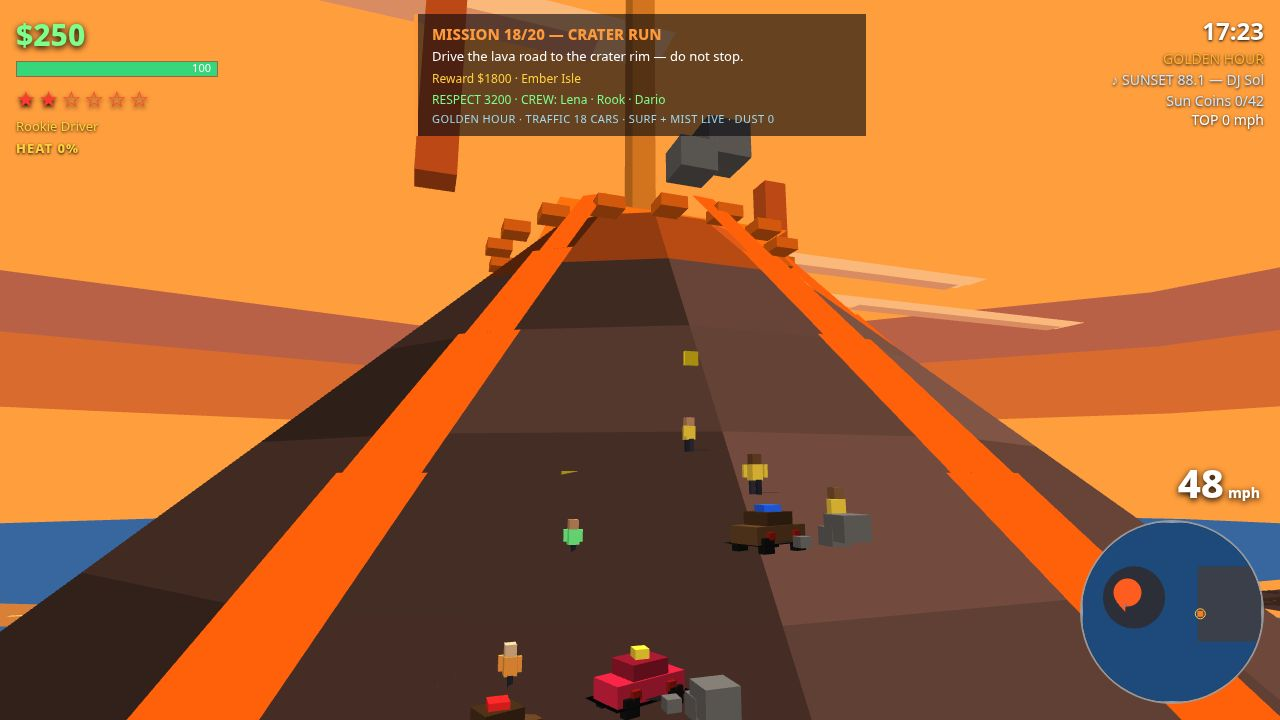
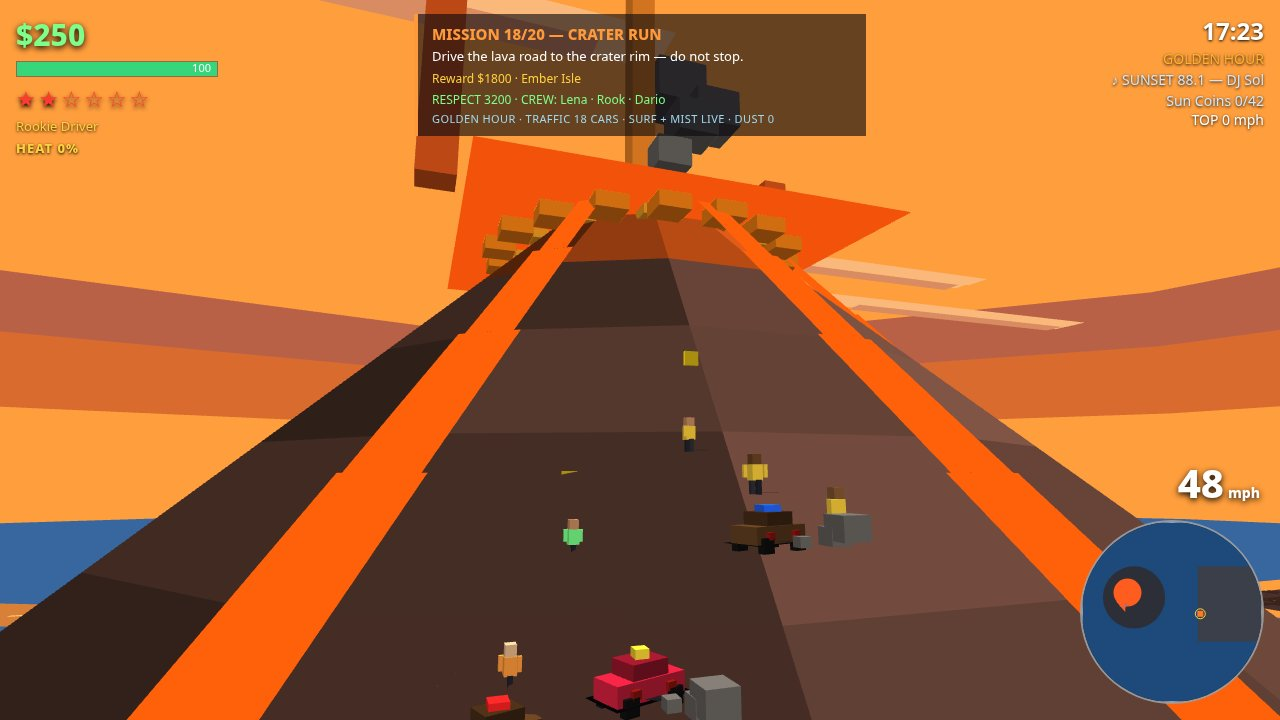
GTA 6 Round 11: brighter crater lava + ferry deck detail
Volcano: 5th lava flow down the camera-facing slope, brighter crater floor with halo ring, chunkier double rim ring, 5 taller smoke puffs, 22 eruption sparks. Ferry: lit gold cabin windows, second lifeboat, deck lights on both sides + rail-top glow dots, longer/wider foam wake with side streaks.

Changed region(s): [[0.3438, 0.0611, 0.7188, 0.4278]]

diff --git a/game/src/render.js b/game/src/render.js
@@ -178,9 +178,12 @@ export class Renderer {
         this.quad(p0, p1, q1, q0, c, false);
       }
     }
-    // Flat crater floor, glowing.
+    // Flat crater floor, glowing — Round 11: brighter core plus a wider
+    // halo ring just below it, so the crater reads as molten from the
+    // low volcano-shot camera instead of a flat orange square.
     const cr = baseR * 0.14;
-    this.quad([cx - cr, height, cz - cr], [cx + cr, height, cz - cr], [cx + cr, height, cz + cr], [cx - cr, height, cz + cr], [1.0, 0.45, 0.05], true);
+    this.quad([cx - cr * 1.7, height - 0.4, cz - cr * 1.7], [cx + cr * 1.7, height - 0.4, cz - cr * 1.7], [cx + cr * 1.7, height - 0.4, cz + cr * 1.7], [cx - cr * 1.7, height - 0.4, cz + cr * 1.7], [0.95, 0.32, 0.04], true);
+    this.quad([cx - cr, height, cz - cr], [cx + cr, height, cz - cr], [cx + cr, height, cz + cr], [cx - cr, height, cz + cr], [1.0, 0.58, 0.12], true);
   }
 
   // Sun disc + halo, vertical billboard facing the camera, noFog.
@@ -469,10 +472,18 @@ export function renderFrame(renderer, world, state, time) {
   renderer.cone(v.x, v.z, v.base, v.height, '#6e4a3e', 9);
   // Bright orange crater rim ring, visible from the side. The rim boxes
   // stay small (4.5 m) so they read as a glowing rim, not as spikes.
+  // Round 11 — brighter, chunkier rim: the outer ring is bigger and
+  // hotter, and a second inner ring hugs the crater edge, so the rim
+  // reads as a glowing circle even from the low shot camera.
   for (let i = 0; i < 18; i++) {
     const a = (i / 18) * Math.PI * 2;
     const rx = v.x + Math.cos(a) * (v.craterR + 2), rz = v.z + Math.sin(a) * (v.craterR + 2);
-    renderer.box(rx, v.height - 2, rz, 4.5, 2, 4.5, [1.0, 0.42, 0.06], { nofog: true });
+    renderer.box(rx, v.height - 2, rz, 5.5, 2.6, 5.5, [1.0, 0.52, 0.08], { nofog: true });
+  }
+  for (let i = 0; i < 12; i++) {
+    const a = (i / 12) * Math.PI * 2 + 0.26;
+    const rx = v.x + Math.cos(a) * (v.craterR - 3), rz = v.z + Math.sin(a) * (v.craterR - 3);
+    renderer.box(rx, v.height - 1, rz, 4, 2.2, 4, [1.0, 0.64, 0.14], { nofog: true });
   }
   // Lava flows down three slopes, as glowing ribbons lying ON the cone
   // surface: each segment follows the slope (p.y at one end, q.y at the
@@ -490,23 +501,53 @@ export function renderFrame(renderer, world, state, time) {
         [1.0, 0.38, 0.04], true);
     }
   }
+  // Round 11 — a fifth lava flow, drawn here (not in world.js) down the
+  // slope the volcano-shot camera faces (angle -0.35 rad, between the
+  // car and the crater), so the crater run's foreground slope carries a
+  // bright ribbon too. Cone height is linear in radius: the cone spans
+  // baseR at y=0 to baseR*0.14 at y=height, so y = height*(1-r/base)/0.86.
+  {
+    const fa = -0.35;
+    let prev = null;
+    for (let t = 0; t <= 1.001; t += 0.125) {
+      const r = v.craterR + t * (v.base - v.craterR);
+      const pt = {
+        x: v.x + Math.cos(fa) * r,
+        z: v.z + Math.sin(fa) * r,
+        y: v.height * (1 - r / v.base) / 0.86 + 0.6,
+        w: 4.5 + Math.sin(t * Math.PI) * 5.5,
+      };
+      if (prev) {
+        const dx = pt.x - prev.x, dz = pt.z - prev.z;
+        const len = Math.hypot(dx, dz) || 1;
+        const px = -dz / len * (prev.w / 2), pz = dx / len * (prev.w / 2);
+        renderer.quad(
+          [prev.x - px, prev.y + 0.7, prev.z - pz], [prev.x + px, prev.y + 0.7, prev.z + pz],
+          [pt.x + px, pt.y + 0.7, pt.z + pz], [pt.x - px, pt.y + 0.7, pt.z - pz],
+          [1.0, 0.42, 0.05], true);
+      }
+      prev = pt;
+    }
+  }
   // Wide beacon beam above the crater + two dim side pillars rooted at the rim.
   renderer.box(v.x, v.height + 40, v.z, 5, 80, 5, [1.0, 0.55, 0.15], { nofog: true });
   renderer.box(v.x - 40, v.height + 15, v.z + 20, 6, 30, 6, [0.9, 0.35, 0.1], { nofog: true });
   renderer.box(v.x + 42, v.height + 15, v.z - 18, 6, 30, 6, [0.9, 0.35, 0.1], { nofog: true });
-  // Smoke puffs above the crater, drifting with time. Kept small and
-  // pale so they read as smoke, not as dark blocks over the crater.
-  for (let i = 0; i < 3; i++) {
-    const t = (time * 0.12 + i / 3) % 1;
-    renderer.box(v.x + Math.sin(i * 2.4) * 6 + t * 18, v.height + 6 + t * 26, v.z + Math.cos(i * 1.7) * 6, 5 + t * 6, 4 + t * 5, 5 + t * 6, [0.42, 0.40, 0.38], { nofog: false });
+  // Smoke puffs above the crater, drifting with time. Round 11 — five
+  // puffs now, climbing higher, so the eruption column reads above the
+  // rim instead of hugging it.
+  for (let i = 0; i < 5; i++) {
+    const t = (time * 0.12 + i / 5) % 1;
+    renderer.box(v.x + Math.sin(i * 2.4) * 6 + t * 18, v.height + 8 + t * 38, v.z + Math.cos(i * 1.7) * 6, 5 + t * 7, 4 + t * 6, 5 + t * 7, [0.42, 0.40, 0.38], { nofog: false });
   }
-  // Lava sparks during eruption pulses.
+  // Lava sparks during eruption pulses. Round 11 — more sparks, thrown
+  // wider and higher, so the eruption reads at the frame's top edge.
   const erupting = Math.sin(time * 0.5) > 0.2;
   if (erupting) {
-    for (let i = 0; i < 14; i++) {
-      const a = (i / 14) * Math.PI * 2 + time;
-      const r = 8 + (i % 4) * 5;
-      renderer.box(v.x + Math.cos(a) * r, v.height + 4 + Math.sin(time * 2 + i) * 8, v.z + Math.sin(a) * r, 1.6, 1.6, 1.6, [1.0, 0.75, 0.2], { nofog: true });
+    for (let i = 0; i < 22; i++) {
+      const a = (i / 22) * Math.PI * 2 + time;
+      const r = 8 + (i % 5) * 6;
+      renderer.box(v.x + Math.cos(a) * r, v.height + 4 + Math.sin(time * 2 + i) * 10, v.z + Math.sin(a) * r, 2, 2, 2, [1.0, 0.75, 0.2], { nofog: true });
     }
   }
   // Second crater, enlarged, south-east of the main cone (layered too).
@@ -805,21 +846,26 @@ function drawFerry(renderer, ferry, time) {
     put(i * 3.4, -6.05, 0.9, 0.9, 0.3, [1.0, 0.82, 0.35], 3.6, { nofog: true });
   }
   // Cabin: white, shorter than before so the bow deck stays open, with a
-  // dark window band and a blue upper deck with its own windows.
+  // dark window band and a blue upper deck with its own windows. Round 11
+  // — the main cabin windows are lit warm gold now, so the cabin glows
+  // at golden hour instead of reading as a dark stripe.
   put(-2, 0, 16, 5, 9, '#f2ede0', 7.5);
   for (let i = -2; i <= 2; i++) {
-    put(-2 + i * 3, 4.55, 1.6, 1.8, 0.3, '#274b63', 9.2);
-    put(-2 + i * 3, -4.55, 1.6, 1.8, 0.3, '#274b63', 9.2);
+    put(-2 + i * 3, 4.55, 1.6, 1.8, 0.3, [1.0, 0.78, 0.38], 9.2, { nofog: true });
+    put(-2 + i * 3, -4.55, 1.6, 1.8, 0.3, [1.0, 0.78, 0.38], 9.2, { nofog: true });
   }
   put(-4, 0, 12, 3.5, 7, '#3a6a8a', 12.5);
   for (let i = -1; i <= 1; i++) {
     put(-4 + i * 3.4, 3.55, 1.5, 1.5, 0.3, '#cfe8ff', 13.6);
     put(-4 + i * 3.4, -3.55, 1.5, 1.5, 0.3, '#cfe8ff', 13.6);
   }
-  // Funnel with a red band, and an orange lifeboat on the cabin side.
+  // Funnel with a red band, and an orange lifeboat on each cabin side.
+  // Round 11 — a matching second lifeboat on the port side, so the
+  // cabin reads as properly equipped from either camera angle.
   put(12, 0, 3, 9, 3, '#222222', 7.5);
   put(12, 0, 3.2, 1.6, 3.2, '#c81e3a', 13.5);
   put(2, 4.8, 5, 1.6, 1.4, '#ff7a1f', 8.5);
+  put(2, -4.8, 5, 1.6, 1.4, '#ff7a1f', 8.5);
   // Deck rails along both open-deck edges.
   put(-13, 5.8, 8, 0.5, 0.3, '#dddddd', 8.2);
   put(-13, -5.8, 8, 0.5, 0.3, '#dddddd', 8.2);
@@ -832,15 +878,31 @@ function drawFerry(renderer, ferry, time) {
   put(15.5, -4.5, 0.6, 12, 0.6, '#dddddd', 7.5);
   const flagX = f.x + 15.5 * co - (-4.5) * s, flagZ = f.z + 15.5 * s + (-4.5) * co;
   renderer.box(flagX, 20.5, flagZ, 4, 2.4, 0.3, '#ff9a3c', { rotY: f.heading, nofog: true });
-  // Deck lights along the hull top edge.
+  // Deck lights along the hull top edge, both sides now, plus a warm
+  // glow dot on each rail end so the open deck reads as lit at dusk.
+  // Round 11 — the port-side row and rail dots are new.
   for (let i = -3; i <= 3; i++) {
     put(i * 4, 5.2, 1, 1, 1, [1.0, 0.85, 0.4], 7.5, { nofog: true });
+    put(i * 4, -5.2, 1, 1, 1, [1.0, 0.85, 0.4], 7.5, { nofog: true });
   }
-  // Foam wake behind the ferry.
+  for (const sx of [-13, 13]) {
+    for (const sz of [5.8, -5.8]) {
+      put(sx, sz, 0.9, 0.9, 0.9, [1.0, 0.88, 0.5], 8.6, { nofog: true });
+    }
+  }
+  // Foam wake behind the ferry. Round 11 — longer, wider and brighter:
+  // ten puffs trailing further astern, with side streaks fanning out,
+  // so the ferry reads as moving instead of parked on flat water.
   const wx = f.x + Math.sin(f.heading) * 22, wz = f.z + Math.cos(f.heading) * 22;
-  for (let i = 0; i < 6; i++) {
-    const t = i / 6;
-    renderer.box(wx + Math.sin(f.heading) * i * 4, 0.6, wz + Math.cos(f.heading) * i * 4, 10 - t * 4, 0.5, 8 + t * 6, [0.92, 0.95, 0.98], { rotY: f.heading });
+  for (let i = 0; i < 10; i++) {
+    const t = i / 10;
+    renderer.box(wx + Math.sin(f.heading) * i * 5, 0.6, wz + Math.cos(f.heading) * i * 5, 12 - t * 4, 0.6, 9 + t * 8, [0.95, 0.97, 1.0], { rotY: f.heading });
+  }
+  for (const side of [-1, 1]) {
+    for (let i = 0; i < 5; i++) {
+      const t = i / 5;
+      renderer.box(wx + Math.sin(f.heading) * i * 5 + Math.cos(f.heading) * side * (7 + t * 6), 0.6, wz + Math.cos(f.heading) * i * 5 - Math.sin(f.heading) * side * (7 + t * 6), 6 - t * 2, 0.5, 3, [0.92, 0.95, 0.98], { rotY: f.heading });
+    }
   }
 }
 
